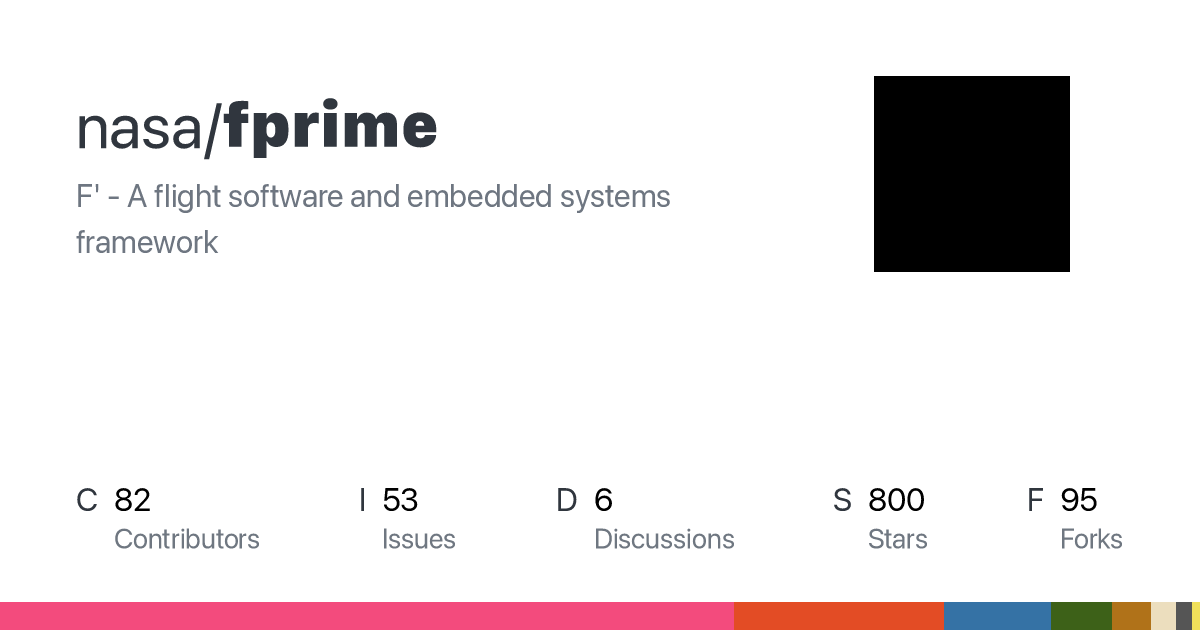
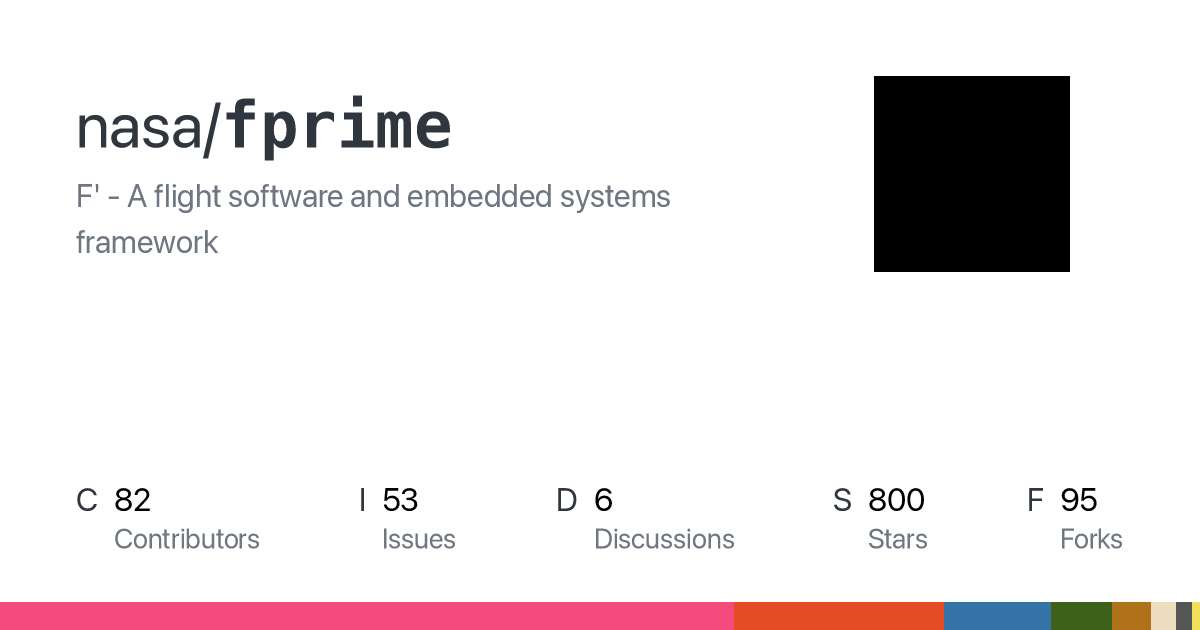
update test card

Changed region(s): [[0.0617, 0.1508, 0.4008, 0.2714]]

diff --git a/decal-core/src/main.rs b/decal-core/src/main.rs
@@ -1,14 +1,15 @@
 use decal::prelude::*;
-use decal_macros::{decal, fragment};
+use decal_macros::{decal, fragment, text};
 use std::time::Instant;
 
 fn heading(owner: &str, repo: &str) -> Decal {
     fragment! {
         Row {
-            Text(owner)
-            Text("/")
-            Text(repo)
-                .font_weight(FontWeight::Black)
+            Text(text! {
+                owner,
+                "/",
+                (repo, { weight: FontWeight::Bold })
+             })
         }
             .font_size(64)
             .line_height(96)
